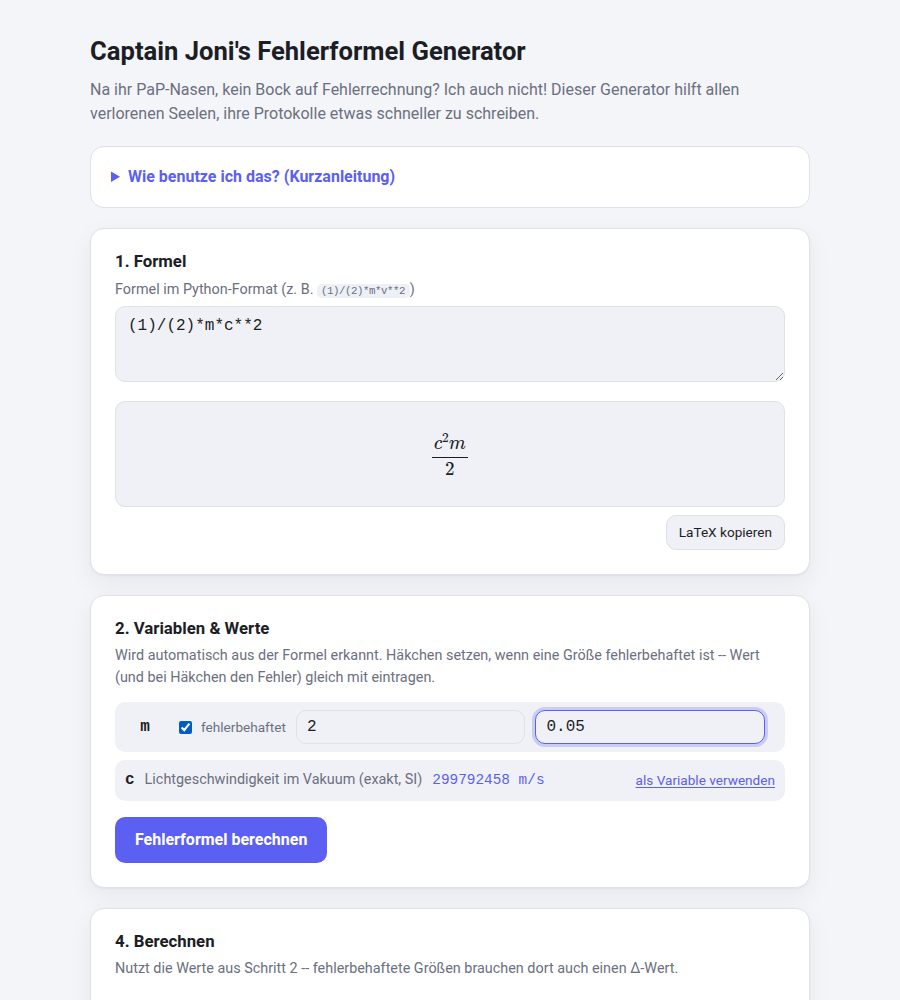
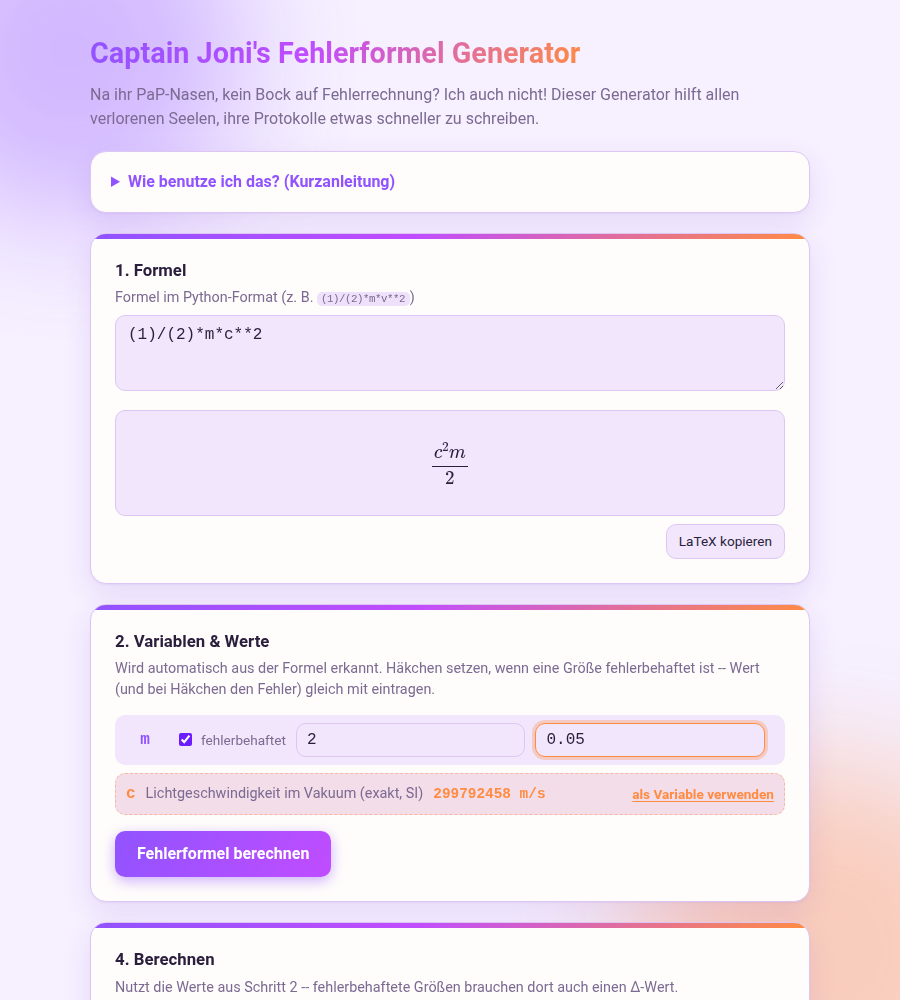
Restyle: pastel purple/orange palette with funky accents
New CSS palette (styles.css tokens, light + dark): --accent (purple) as
the primary brand color, --accent2 (orange) as a 'pop' secondary used
deliberately for focus rings, the numeric result, known-constant chips,
and the donate button. Added a gradient headline, a gradient top bar on
every card, and a couple of soft blurred blob shapes behind the page for
a bit of funk -- all purely decorative, layout untouched.

Verified with the full Playwright regression suite (preview, checkboxes,
constant override, differentiate, calc, copy buttons, localStorage) in
both light and dark color-scheme emulation, plus a rebuilt
docker-compose.local.yml container. README screenshots regenerated.

Changed region(s): [[0.0933, 0.434, 1.0, 1.0], [0.0, 0.0, 0.9022, 0.341], [0.1244, 0.372, 0.8711, 0.403]]

diff --git a/public/styles.css b/public/styles.css
@@ -1,37 +1,44 @@
 :root {
-    --bg: #f4f5f9;
-    --surface: #ffffff;
-    --surface-muted: #f0f1f6;
-    --border: #dfe1ea;
-    --text: #1c1e26;
-    --text-muted: #6b7080;
-    --accent: #5b5ff2;
-    --accent-hover: #4548d6;
+    --bg: #f6f0ff;
+    --surface: #fffdfb;
+    --surface-muted: #f1e6fb;
+    --border: #ddc7f2;
+    --text: #2a1e3d;
+    --text-muted: #7c6a92;
+    --accent: #9153ff;
+    --accent-hover: #7c3aed;
     --accent-contrast: #ffffff;
+    --accent2: #ff8c42;
+    --accent2-hover: #f7740f;
+    --accent2-contrast: #2a1206;
     --danger-bg: #fdecea;
     --danger-border: #f2b8b5;
     --danger-text: #7a1f1a;
-    --code-bg: #eef0f8;
-    --shadow: 0 1px 2px rgba(20, 20, 40, 0.04), 0 8px 24px rgba(20, 20, 40, 0.06);
-    --radius: 14px;
+    --code-bg: #efe1fb;
+    --shadow: 0 1px 2px rgba(120, 60, 200, 0.07), 0 10px 28px rgba(120, 60, 200, 0.12);
+    --radius: 16px;
+    --gradient: linear-gradient(120deg, var(--accent), #c04dff 45%, var(--accent2));
 }
 
 @media (prefers-color-scheme: dark) {
     :root {
-        --bg: #14151c;
-        --surface: #1c1e28;
-        --surface-muted: #23252f;
-        --border: #34374a;
-        --text: #eceef4;
-        --text-muted: #9b9fb3;
-        --accent: #8b8fff;
-        --accent-hover: #a3a6ff;
-        --accent-contrast: #14151c;
+        --bg: #180f26;
+        --surface: #241834;
+        --surface-muted: #2f2143;
+        --border: #46325f;
+        --text: #f5eeff;
+        --text-muted: #b6a3cf;
+        --accent: #b98bff;
+        --accent-hover: #cba3ff;
+        --accent-contrast: #1a1030;
+        --accent2: #ffab5e;
+        --accent2-hover: #ffbb7a;
+        --accent2-contrast: #2a1206;
         --danger-bg: #3a1f1f;
         --danger-border: #6b3634;
         --danger-text: #f5b8b3;
-        --code-bg: #262838;
-        --shadow: 0 1px 2px rgba(0, 0, 0, 0.3), 0 8px 24px rgba(0, 0, 0, 0.35);
+        --code-bg: #322347;
+        --shadow: 0 1px 2px rgba(0, 0, 0, 0.4), 0 10px 32px rgba(150, 80, 255, 0.18);
     }
 }
 
@@ -39,13 +46,51 @@
     box-sizing: border-box;
 }
 
+html {
+    accent-color: var(--accent);
+}
+
 body {
+    position: relative;
     margin: 0;
     padding: 32px 16px 64px;
     background: var(--bg);
     color: var(--text);
     font-family: -apple-system, BlinkMacSystemFont, "Segoe UI", Roboto, Helvetica, Arial, sans-serif;
     line-height: 1.5;
+    overflow-x: hidden;
+}
+
+/* funky blurred blobs floating behind the content -- purely decorative */
+body::before, body::after {
+    content: "";
+    position: fixed;
+    z-index: -1;
+    border-radius: 50%;
+    filter: blur(60px);
+    opacity: 0.35;
+    pointer-events: none;
+}
+
+body::before {
+    top: -120px;
+    left: -100px;
+    width: 340px;
+    height: 340px;
+    background: var(--accent);
+}
+
+body::after {
+    bottom: -140px;
+    right: -110px;
+    width: 380px;
+    height: 380px;
+    background: var(--accent2);
+}
+
+::selection {
+    background: var(--accent2);
+    color: var(--accent2-contrast);
 }
 
 main {
@@ -62,8 +107,14 @@ main {
 }
 
 .page-header h1 {
-    font-size: 1.6em;
+    font-size: 1.8em;
     margin: 0 0 8px;
+    background: var(--gradient);
+    -webkit-background-clip: text;
+    background-clip: text;
+    color: var(--accent);
+    -webkit-text-fill-color: transparent;
+    display: inline-block;
 }
 
 .subtitle {
@@ -78,6 +129,7 @@ main {
     border: 1px solid var(--border);
     border-radius: var(--radius);
     padding: 4px 20px;
+    box-shadow: var(--shadow);
 }
 
 .intro-card summary {
@@ -107,11 +159,22 @@ code {
 }
 
 .card {
+    position: relative;
     background: var(--surface);
     border: 1px solid var(--border);
     border-radius: var(--radius);
     box-shadow: var(--shadow);
-    padding: 20px 24px 24px;
+    padding: 24px 24px 24px;
+    overflow: hidden;
+    transition: transform 0.15s ease, box-shadow 0.15s ease;
+}
+
+.card::before {
+    content: "";
+    position: absolute;
+    inset: 0 0 auto 0;
+    height: 5px;
+    background: var(--gradient);
 }
 
 .card h2 {
@@ -146,8 +209,8 @@ textarea, input[type="text"] {
 
 textarea:focus, input[type="text"]:focus {
     outline: none;
-    border-color: var(--accent);
-    box-shadow: 0 0 0 3px color-mix(in srgb, var(--accent) 25%, transparent);
+    border-color: var(--accent2);
+    box-shadow: 0 0 0 3px color-mix(in srgb, var(--accent2) 30%, transparent);
 }
 
 textarea {
@@ -170,7 +233,7 @@ button {
     cursor: pointer;
     border-radius: 10px;
     border: none;
-    transition: background-color 0.15s ease, transform 0.05s ease;
+    transition: filter 0.15s ease, transform 0.05s ease, box-shadow 0.15s ease;
 }
 
 button:active {
@@ -179,14 +242,15 @@ button:active {
 
 .primary-button {
     margin-top: 16px;
-    padding: 11px 20px;
-    background: var(--accent);
+    padding: 11px 22px;
+    background: linear-gradient(120deg, var(--accent), #c04dff);
     color: var(--accent-contrast);
-    font-weight: 600;
+    font-weight: 700;
+    box-shadow: 0 4px 14px color-mix(in srgb, var(--accent) 45%, transparent);
 }
 
 .primary-button:hover {
-    background: var(--accent-hover);
+    filter: brightness(1.08);
 }
 
 .secondary-button {
@@ -203,11 +267,16 @@ button:active {
 
 .link-button {
     background: none;
-    color: var(--accent);
+    color: var(--accent2);
     font-size: 0.85em;
     padding: 2px 0;
+    font-weight: 600;
     text-decoration: underline;
     text-underline-offset: 2px;
+}
+
+.link-button:hover {
+    color: var(--accent2-hover);
 }
 
 /* ---------- variable panel ---------- */
@@ -237,6 +306,7 @@ button:active {
 .var-row .var-name {
     font-family: "SFMono-Regular", Consolas, "Liberation Mono", Menlo, monospace;
     font-weight: 700;
+    color: var(--accent);
     text-align: center;
 }
 
@@ -260,6 +330,8 @@ button:active {
 
 .var-row--constant {
     grid-template-columns: 1fr auto;
+    background: color-mix(in srgb, var(--accent2) 10%, var(--surface-muted));
+    border: 1px dashed color-mix(in srgb, var(--accent2) 45%, transparent);
 }
 
 .const-info {
@@ -271,6 +343,7 @@ button:active {
 
 .const-info .var-name {
     text-align: left;
+    color: var(--accent2);
 }
 
 .const-label {
@@ -281,7 +354,8 @@ button:active {
 .const-value {
     font-family: "SFMono-Regular", Consolas, "Liberation Mono", Menlo, monospace;
     font-size: 0.9em;
-    color: var(--accent);
+    font-weight: 700;
+    color: var(--accent2);
 }
 
 /* ---------- misc ---------- */
@@ -319,8 +393,9 @@ button:active {
 
 .result-box {
     margin-top: 14px;
-    font-size: 1.3em;
-    font-weight: 700;
+    font-size: 1.4em;
+    font-weight: 800;
+    color: var(--accent2);
 }
 
 .page-footer {
@@ -330,14 +405,16 @@ button:active {
 }
 
 .donate-button {
-    background: var(--surface);
-    color: var(--text);
-    border: 1px solid var(--border);
-    padding: 10px 20px;
+    background: linear-gradient(120deg, var(--accent2), #ffb238);
+    color: var(--accent2-contrast);
+    border: none;
+    padding: 11px 22px;
+    font-weight: 700;
+    box-shadow: 0 4px 14px color-mix(in srgb, var(--accent2) 45%, transparent);
 }
 
 .donate-button:hover {
-    background: var(--surface-muted);
+    filter: brightness(1.06);
 }
 
 @media (max-width: 560px) {
